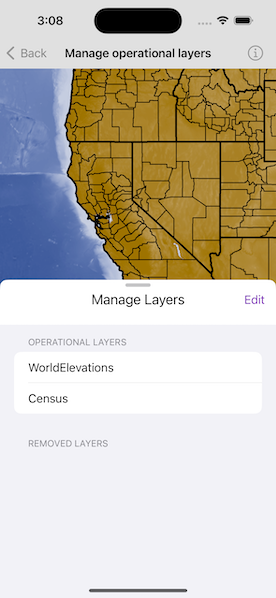
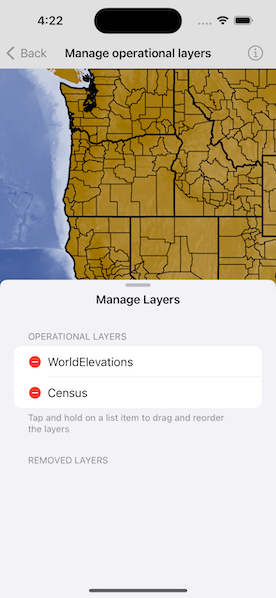
Apply review suggestions.
https://github.com/Esri/arcgis-maps-sdk-swift-samples/pull/210#discussion_r1239099371

Changed region(s): [[0.0, 0.0903, 1.0, 0.5117], [0.087, 0.5418, 0.8116, 0.7826], [0.1449, 0.0301, 0.2319, 0.0602]]

diff --git a/Shared/Samples/Manage operational layers/ManageOperationalLayersView.swift b/Shared/Samples/Manage operational layers/ManageOperationalLayersView.swift
@@ -26,14 +26,8 @@ struct ManageOperationalLayersView: View {
         return map
     }()
     
-    /// An array for all the layers currently on the map.
-    @State private var operationalLayers: [Layer] = []
-    
-    /// An array for all the layers not on the map.
-    @State private var removedLayers: [Layer] = []
-    
-    /// A Boolean value indicating whether to show the manage layers options sheet.
-    @State private var isShowingOptions = false
+    /// A Boolean value indicating whether to show the manage layers sheet.
+    @State private var isShowingSheet = false
     
     /// A Boolean value indicating whether to show an alert.
     @State private var isShowingAlert = false
@@ -54,8 +48,7 @@ struct ManageOperationalLayersView: View {
                     let censusTiledLayer = ArcGISMapImageLayer(url: .censusTiles)
                     try await censusTiledLayer.load()
                     
-                    operationalLayers = [elevationImageLayer, censusTiledLayer]
-                    map.addOperationalLayers(operationalLayers)
+                    map.addOperationalLayers([elevationImageLayer, censusTiledLayer])
                 } catch {
                     self.error = error
                 }
@@ -63,64 +56,82 @@ struct ManageOperationalLayersView: View {
             .toolbar {
                 ToolbarItem(placement: .bottomBar) {
                     Button("Manage Layers") {
-                        isShowingOptions.toggle()
+                        isShowingSheet.toggle()
                     }
                 }
             }
-            .sheet(isPresented: $isShowingOptions, detents: [.medium], dragIndicatorVisibility: .visible) {
-                VStack {
-                    ZStack {
-                        Text("Manage Layers")
-                            .font(.title3)
-                        HStack {
-                            Spacer()
-                            EditButton()
-                        }
-                    }
-                    .padding()
-                    List {
-                        Section(header: Text("Operational Layers")) {
-                            ForEach(operationalLayers, id: \.name) { layer in
-                                Text(layer.name)
-                            }
-                            .onMove { fromOffsets, toOffset in
-                                operationalLayers.move(fromOffsets: fromOffsets, toOffset: toOffset)
-                                map.removeAllOperationalLayers()
-                                map.addOperationalLayers(operationalLayers)
-                            }
-                            .onDelete { indexSet in
-                                for i in indexSet {
-                                    map.removeOperationalLayer(operationalLayers[i])
-                                    removedLayers.append(operationalLayers[i])
-                                    operationalLayers.remove(at: i)
-                                }
-                            }
-                        }
-                        Section(header: Text("Removed Layers")) {
-                            ForEach(removedLayers, id: \.name) { layer in
-                                HStack {
-                                    Button {
-                                        map.addOperationalLayer(layer)
-                                        operationalLayers.append(layer)
-                                        removedLayers.removeAll(where: { $0.name == layer.name })
-                                    } label: {
-                                        Image(systemName: "plus.circle.fill")
-                                            .foregroundColor(.green)
-                                            .padding(.leading, 0)
-                                            .font(.system(size: 18))
-                                    }
-                                    Text(layer.name)
-                                }
-                            }
-                            .deleteDisabled(true)
-                        }
-                    }
-                }
+            .sheet(isPresented: $isShowingSheet, detents: [.medium], dragIndicatorVisibility: .visible) {
+                ManageLayersSheetView(map: $map)
             }
             .alert(isPresented: $isShowingAlert, presentingError: error)
     }
 }
+
+struct ManageLayersSheetView: View {
+    /// The map with the operational layers.
+    @Binding var map: Map
     
+    /// An array for all the layers currently on the map.
+    @State private var operationalLayers: [Layer] = []
+    
+    /// An array for all the layers removed from the map.
+    @State private var removedLayers: [Layer] = []
+    
+    var body: some View {
+        NavigationView {
+            List {
+                Section(
+                    header: Text("Operational Layers"),
+                    footer: Text("Tap and hold on a list item to drag and reorder the layers.")
+                ) {
+                    ForEach(operationalLayers, id: \.name) { layer in
+                        HStack {
+                            Button {
+                                // Remove layer from map on minus button press.
+                                map.removeOperationalLayer(layer)
+                                removedLayers.append(layer)
+                                operationalLayers.removeAll(where: { $0.name == layer.name })
+                            } label: {
+                                Image(systemName: "minus.circle.fill")
+                                    .foregroundColor(.red)
+                            }
+                            Text(layer.name)
+                        }
+                    }
+                    .onMove { fromOffsets, toOffset in
+                        // Reorder the map's operational layers on list item move.
+                        operationalLayers.move(fromOffsets: fromOffsets, toOffset: toOffset)
+                        map.removeAllOperationalLayers()
+                        map.addOperationalLayers(operationalLayers)
+                    }
+                }
+                
+                Section(header: Text("Removed Layers")) {
+                    ForEach(removedLayers, id: \.name) { layer in
+                        HStack {
+                            Button {
+                                // Add layer to map on plus button press.
+                                map.addOperationalLayer(layer)
+                                operationalLayers.append(layer)
+                                removedLayers.removeAll(where: { $0.name == layer.name })
+                            } label: {
+                                Image(systemName: "plus.circle.fill")
+                                    .foregroundColor(.green)
+                            }
+                            Text(layer.name)
+                        }
+                    }
+                }
+            }
+            .navigationTitle("Manage Layers")
+            .navigationBarTitleDisplayMode(.inline)
+        }
+        .onAppear {
+            operationalLayers = map.operationalLayers
+        }
+    }
+}
+
 private extension URL {
     /// A world elevations image layer URL.
     static var worldElevations: URL {
